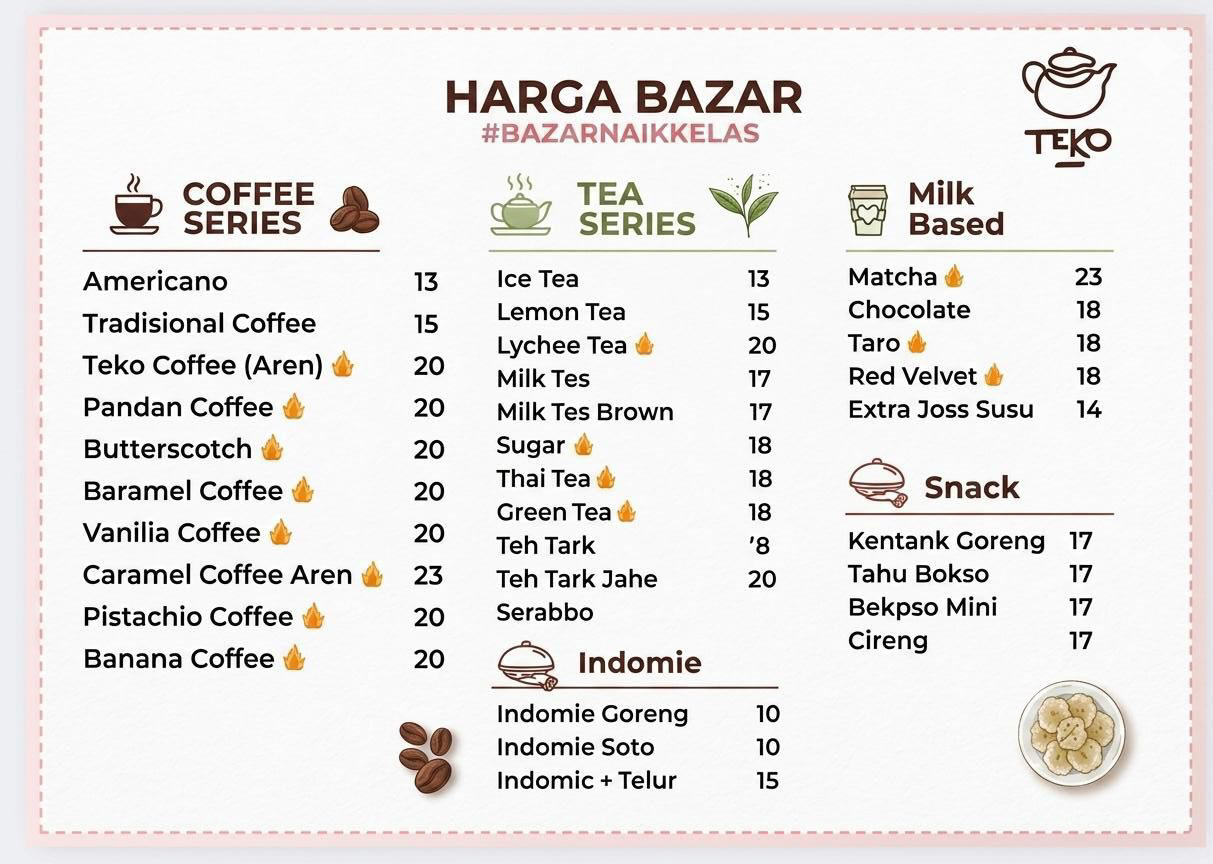
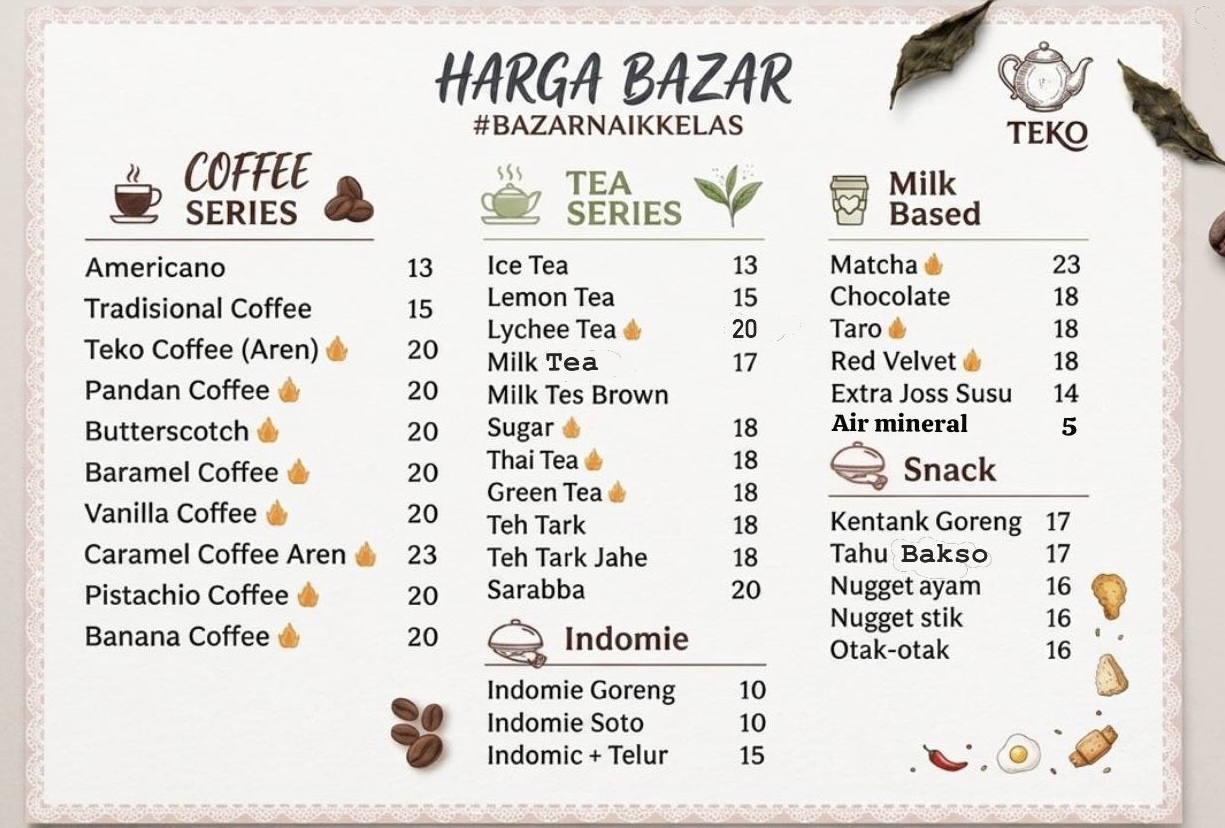
update wa, lokasi, dan foto menu

Changed region(s): [[0.0, 0.0, 1.0, 1.0], [0.061, 0.1812, 0.366, 0.785]]

diff --git a/index.html b/index.html
@@ -1251,7 +1251,7 @@ footer::before {
   <a href="#bazar"    onclick="closeMenu()">Bazar</a>
   <a href="#testimoni" onclick="closeMenu()">Testimoni</a>
   <a href="#lokasi" onclick="closeMenu()">Lokasi</a>
-  <a href="https://wa.me/628242844348" target="_blank" rel="noopener" class="m-cta" onclick="closeMenu()">Book Venue Sekarang</a>
+  <a href="https://wa.me/6288242844348" target="_blank" rel="noopener" class="m-cta" onclick="closeMenu()">Book Venue Sekarang</a>
   <div class="cta-note">©2026 Kopi Teko. All rights reserved. Powered by <a href="https://dekatlokal.com" target="_blank" rel="noopener">DekatLokal</a></div>
 </div>
 <div class="menu-backdrop" id="menuBackdrop" aria-hidden="true"></div>
@@ -1272,7 +1272,7 @@ footer::before {
     </h1>
     <p>Venue bazar &amp; gathering dengan kapasitas 200+ orang, fasilitas lengkap, harga mahasiswa. Buat event komunitas langsung siap, tinggal booking.</p>
     <div class="hero-btns">
-      <a href="https://wa.me/628242844348" target="_blank" rel="noopener" class="btn btn-primary">Book Venue Sekarang</a>
+      <a href="https://wa.me/6288242844348" target="_blank" rel="noopener" class="btn btn-primary">Book Venue Sekarang</a>
       <a href="#fasilitas" class="btn btn-glass">Lihat Fasilitas</a>
     </div>
   </div>
@@ -1444,7 +1444,7 @@ footer::before {
         <div class="price-feat">Kipas tambahan</div>
         <div class="price-feat">Board Games &amp; Card Games</div>
       </div>
-      <a href="https://wa.me/628242844348" target="_blank" rel="noopener" class="btn btn-primary" style="width:100%; justify-content:center;">Reservasi Sekarang</a>
+      <a href="https://wa.me/6288242844348" target="_blank" rel="noopener" class="btn btn-primary" style="width:100%; justify-content:center;">Reservasi Sekarang</a>
     </div>
   </div>
 </section>
@@ -1457,7 +1457,7 @@ footer::before {
       <h3>Bazar &amp; Fundraising Kampus</h3>
       <h2 class="section-title">Paket Bazar untuk Komunitas &amp; Organisasi</h2>
       <p class="section-sub" style="margin-top: 16px; margin-bottom: 32px;">Program khusus yang membantu komunitas dan organisasi mengadakan bazar sebagai cara kreatif untuk penambahan dana event. Solusi paling efisien dan terjangkau di Makassar.</p>
-      <a href="https://wa.me/628242844348" target="_blank" rel="noopener" class="btn btn-primary">Ajukan Bazar Sekarang →</a>
+      <a href="https://wa.me/6288242844348" target="_blank" rel="noopener" class="btn btn-primary">Ajukan Bazar Sekarang →</a>
     </div>
     <div class="bazar-img reveal">
       <img src="Asset/Image/menu.jpeg" alt="Harga Bazar Kopi Teko">
@@ -1552,7 +1552,7 @@ footer::before {
     <div class="location-card reveal">
       <div class="label">Lokasi Kami</div>
       <h2 class="section-title">Datang dan Lihat Venue Secara Langsung</h2>
-      <p class="section-sub" style="margin-top: 12px;">Jl. Cakranur Raya No.5, Gn. Sari, Kec. Rappocini, Kota Makassar, Sulawesi Selatan 90221. Akses mudah untuk bazar kampus dan event komunitas.</p>
+      <p class="section-sub" style="margin-top: 12px;">Jl. Cokonuri Raya No.5, Gn. Sari, Kec. Rappocini, Kota Makassar, Sulawesi Selatan 90221. Akses mudah untuk bazar kampus dan event komunitas.</p>
       <a href="https://www.google.com/maps/search/?api=1&query=Kopi%20Teko%2C%20Jl.%20Cakranur%20Raya%20No.5%2C%20Gn.%20Sari%2C%20Rappocini%2C%20Makassar" target="_blank" rel="noopener" class="btn btn-outline-brown" style="margin-top: 22px;">Buka di Google Maps</a>
     </div>
     <iframe
@@ -1614,7 +1614,7 @@ footer::before {
     <h2>Siap Booking Venue untuk Event Kampus?</h2>
     <p>Amankan tanggal lebih cepat. Tim Kopi Teko siap bantu susun kebutuhan event, bazar, dan gathering komunitas kamu.</p>
     <div class="hero-btns" style="justify-content: center;">
-      <a href="https://wa.me/628242844348" target="_blank" rel="noopener" class="btn btn-primary">Chat WhatsApp Sekarang</a>
+      <a href="https://wa.me/6288242844348" target="_blank" rel="noopener" class="btn btn-primary">Chat WhatsApp Sekarang</a>
       <a href="#harga" class="btn btn-glass">Lihat Paket Harga</a>
     </div>
   </div>
